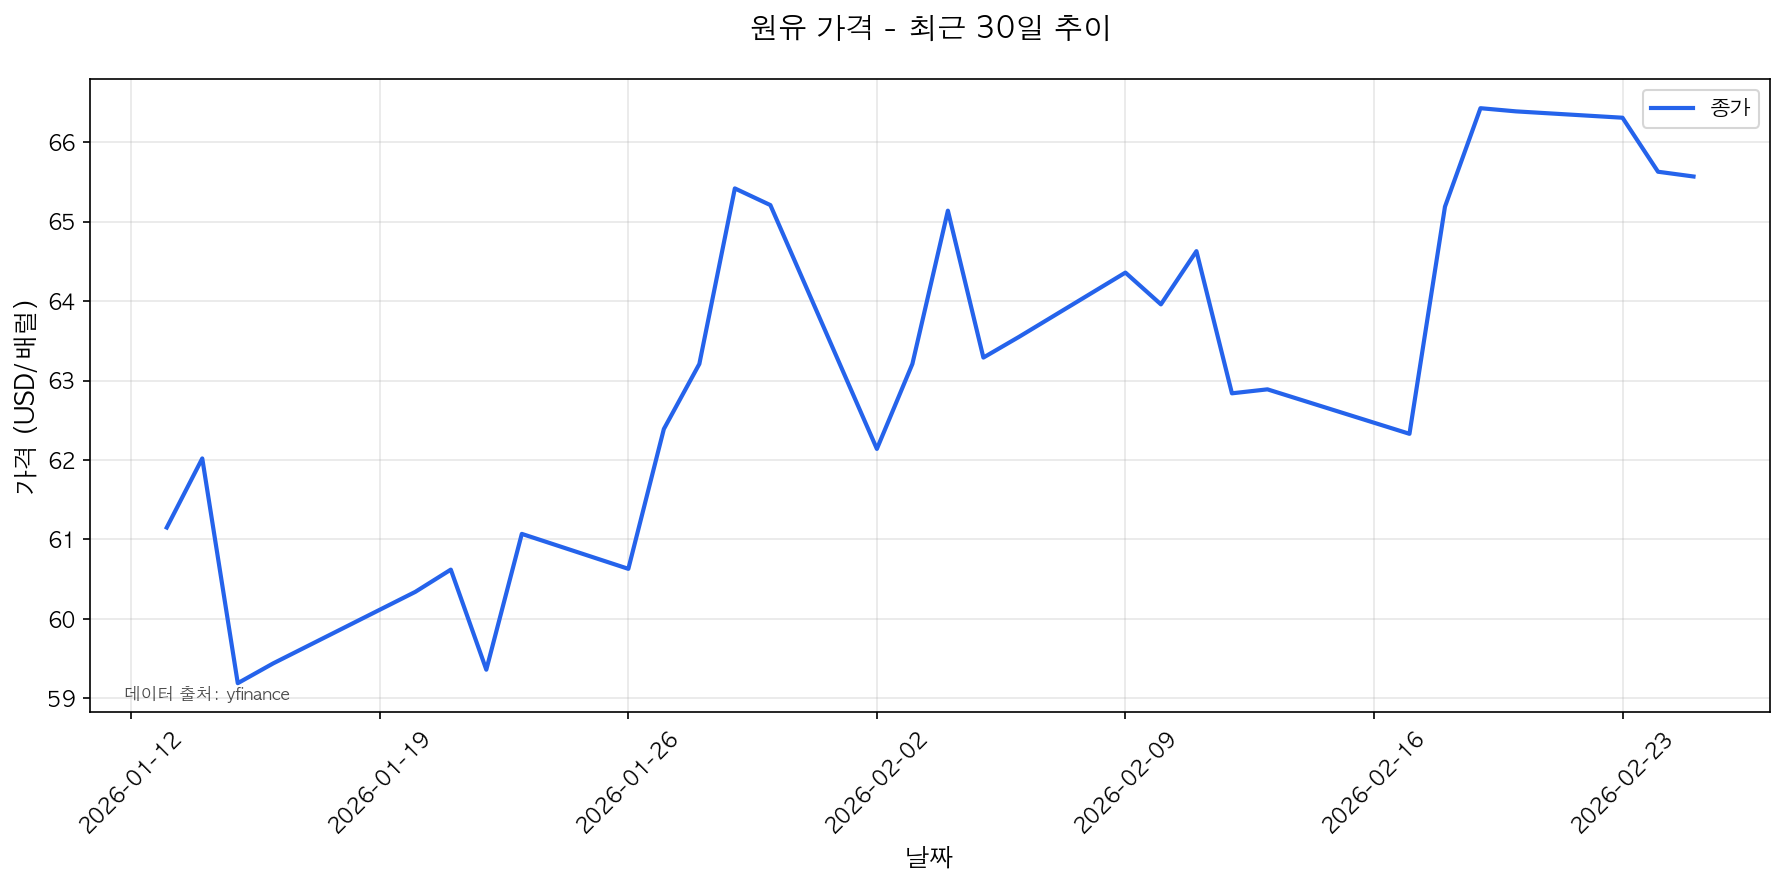
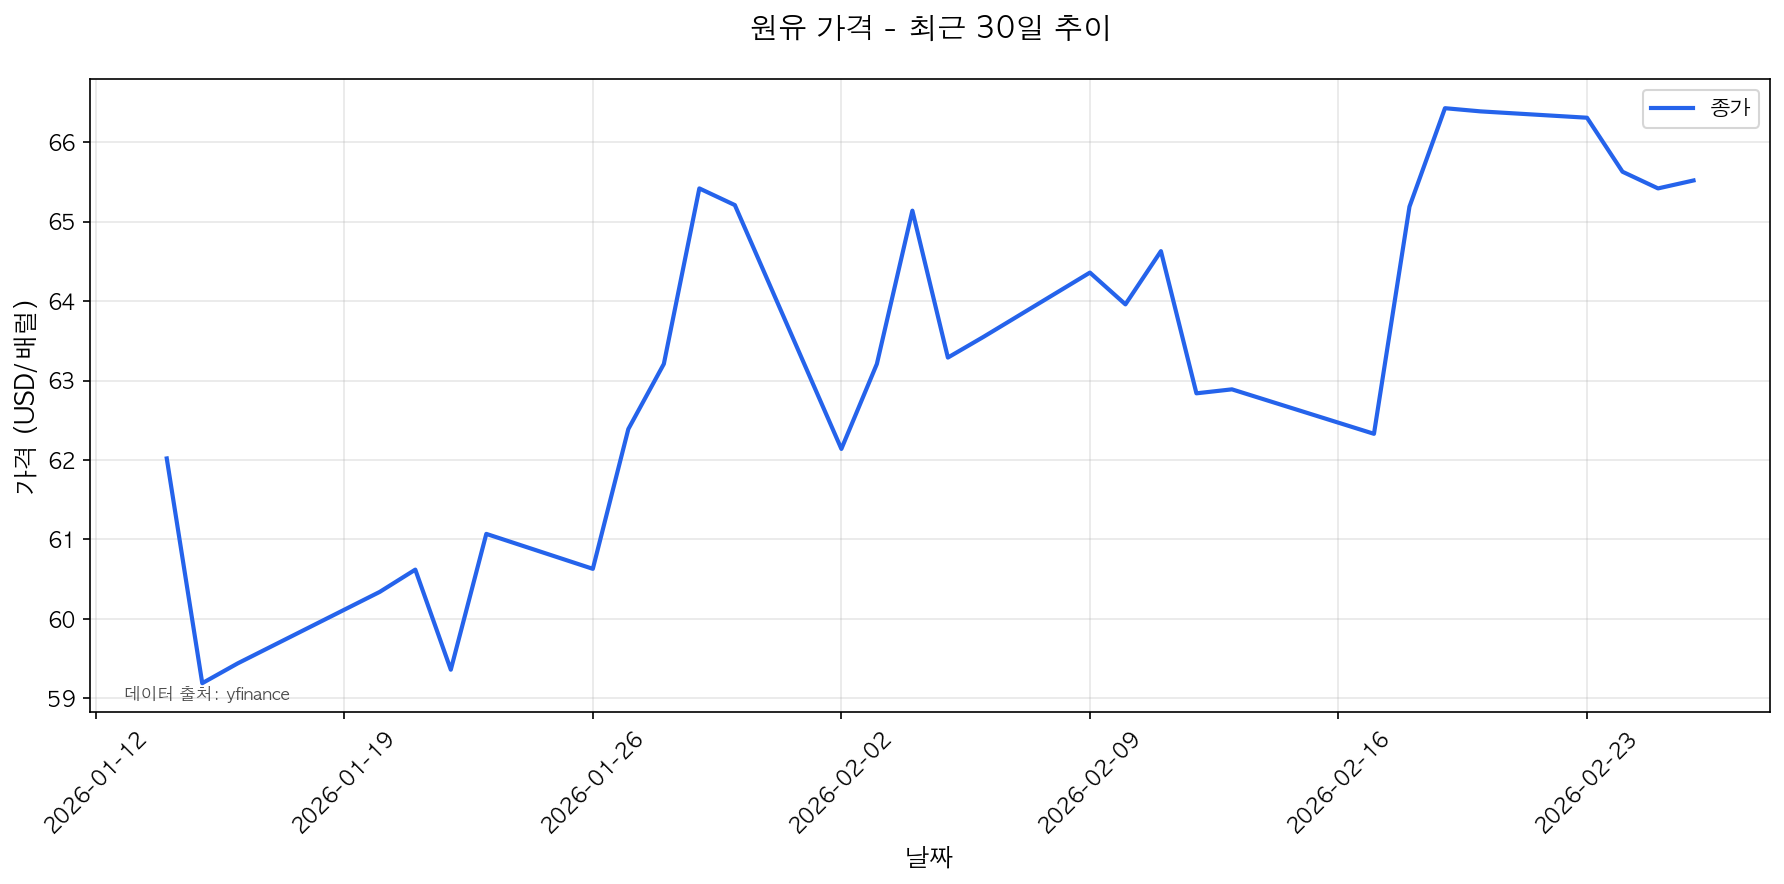
Add 2026-02-26 economy report

diff --git a/swc7592-blip.github.io/_posts/2026-02-25-economic-trends-analysis.md b/swc7592-blip.github.io/_posts/2026-02-25-economic-trends-analysis.md
@@ -22,7 +22,7 @@ image: /assets/images/2026-02-25/gold_price_chart.png
 
 *그림 1: 최근 30일간 금 가격 추이 (데이터 출처: yfinance)*
 
-금 가격은 최근 30일간 **4589.2$**에서 **5211.3$**로 **13.56%** 상승했습니다.
+금 가격은 최근 30일간 **4626.3$**에서 **5191.2$**로 **12.21%** 상승했습니다.
 
 - 기간 중 최고가: **5318.4$** (2026-01-29)
 - 기간 중 최저가: **4588.4$** (2026-01-16)
@@ -52,9 +52,9 @@ image: /assets/images/2026-02-25/gold_price_chart.png
 
 *그림 3: 최근 30일간 KOSPI 지수 추이 (데이터 출처: yfinance)*
 
-한국 주식시장을 대표하는 KOSPI 지수는 최근 30일간 **4692.64**에서 **6212.08**로 **32.38%** 상승했습니다.
+한국 주식시장을 대표하는 KOSPI 지수는 최근 30일간 **4692.64**에서 **6307.27**로 **34.41%** 상승했습니다.
 
-- 기간 중 최고치: **6212.08** (2026-02-26)
+- 기간 중 최고치: **6307.27** (2026-02-26)
 - 기간 중 최저치: **4692.64** (2026-01-13)
 
 KOSPI는 글로벌 시장 동향, 반도체 등 수출 주도 기업의 실적, 그리고 원/달러 환율 등 다양한 요인에 영향을 받습니다.
@@ -67,7 +67,7 @@ KOSPI는 글로벌 시장 동향, 반도체 등 수출 주도 기업의 실적, 
 
 *그림 4: 최근 30일간 원유 가격 추이 (데이터 출처: yfinance)*
 
-WTI 원유 가격은 최근 30일간 **61.15$**에서 **65.57$**로 **7.23%** 상승했습니다.
+WTI 원유 가격은 최근 30일간 **62.02$**에서 **65.52$**로 **5.64%** 상승했습니다.
 
 - 기간 중 최고가: **66.43$** (2026-02-19)
 - 기간 중 최저가: **59.19$** (2026-01-15)
